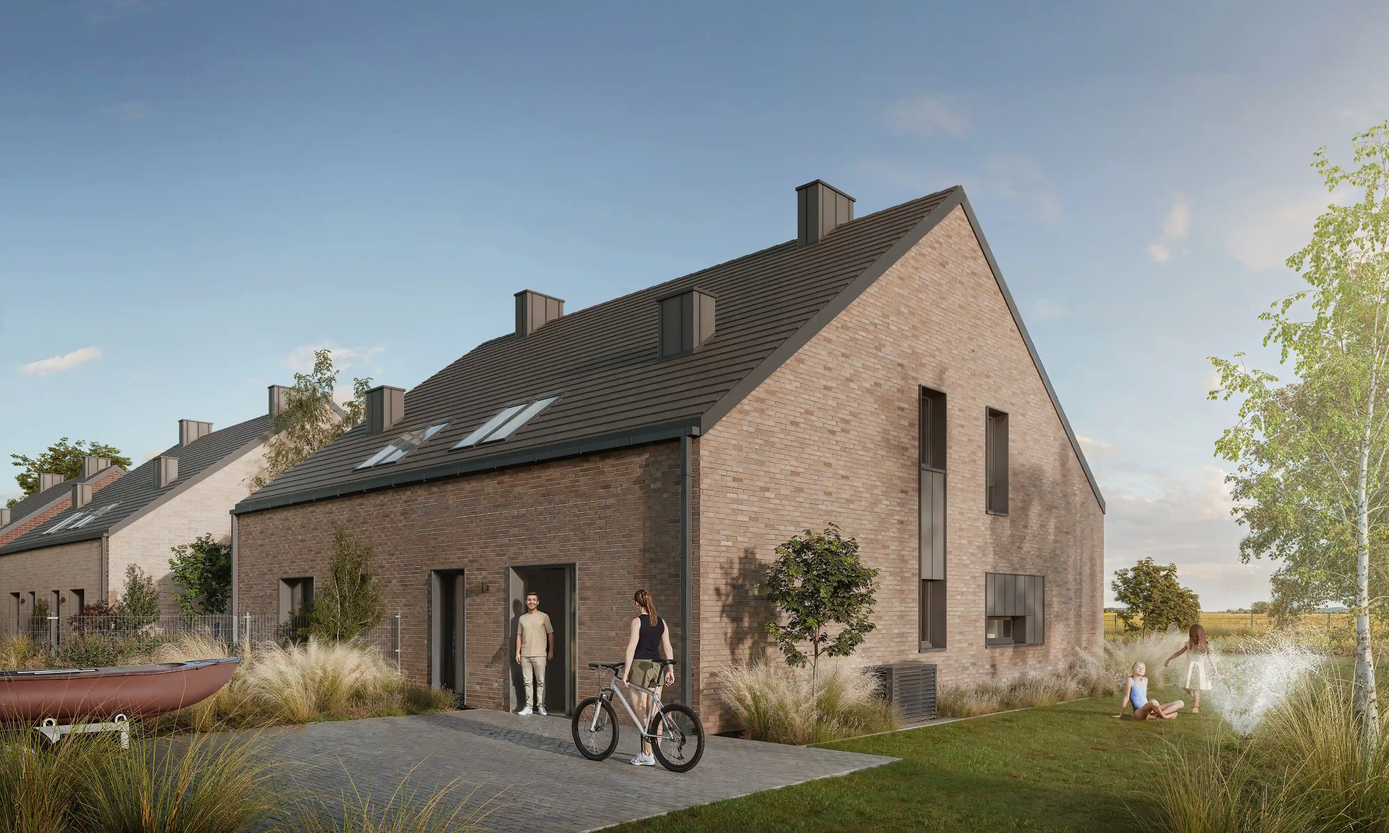
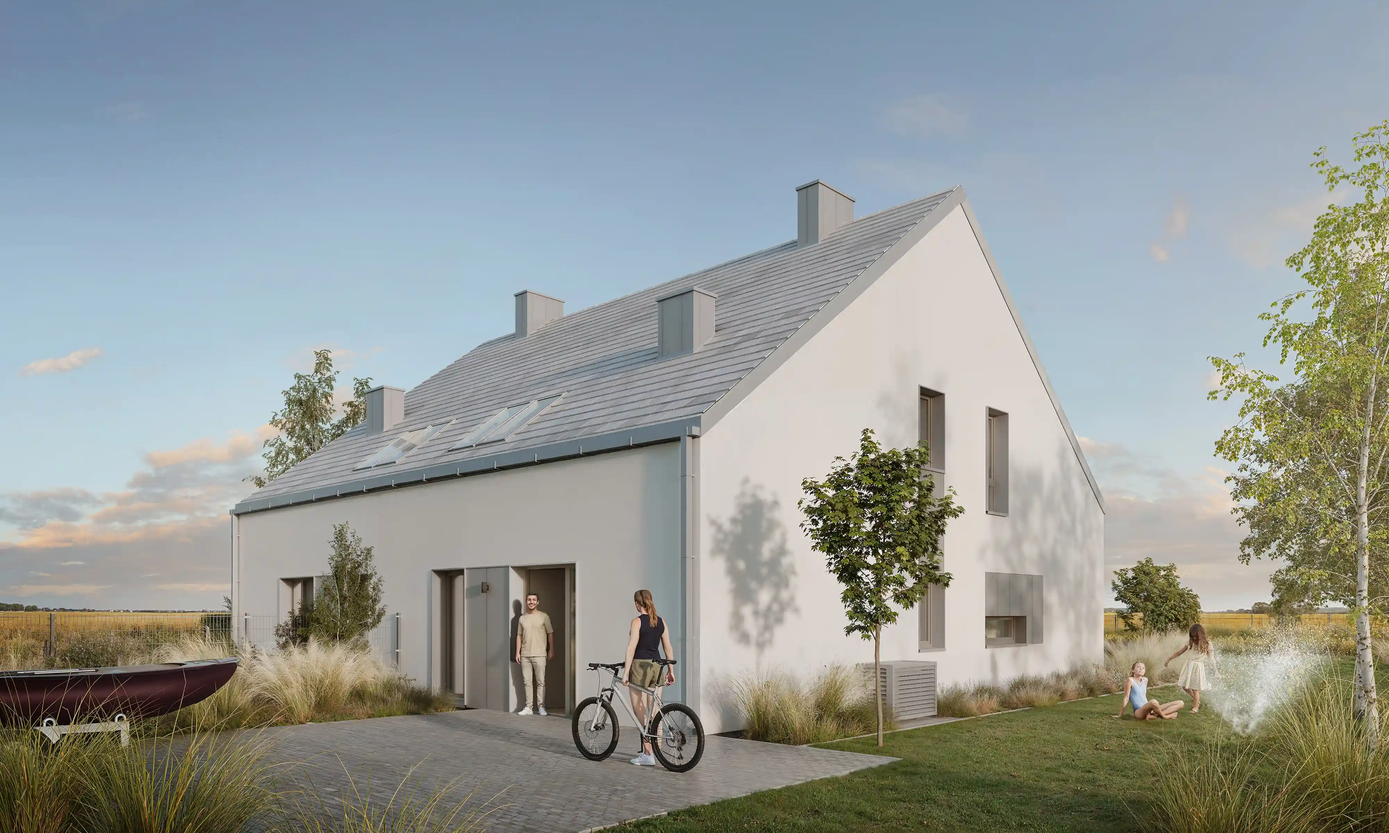
add view from inside

diff --git a/src/content/imageBlocks/widok-1.md b/src/content/imageBlocks/widok-1.md
@@ -1,0 +1,5 @@
+---
+imagePath: /images/investment/widok 1 ps.webp
+blockTitle: Przyroda na wyciągnięcie ręki.
+imageAlt: Wizualizacja tarasu przy jednym z domów w inwestycji w Potrzanowie. Na tarasie znajdują się trzy osoby jedna stoi, a dwie siedzą na sofie i rozmawiają. Przed nimi stoi stół z owocami i napojami. Otaczająca taras bujna roślinność, w tym wysokie trawy ozdobne, podkreśla spokojną, naturalną atmosferę miejsca. Na trawniku przed tarasem leży pies, ciesząc się sielskim otoczeniem.
+---

diff --git a/src/content/imageBlocks/widok-2.md b/src/content/imageBlocks/widok-2.md
@@ -1,0 +1,5 @@
+---
+imagePath: /images/investment/widok 2 ps.webp
+blockTitle: Przyroda na wyciągnięcie ręki.
+imageAlt: Wizualizacja tarasu przy jednym z domów w inwestycji w Potrzanowie. Na tarasie znajdują się trzy osoby jedna stoi, a dwie siedzą na sofie i rozmawiają. Przed nimi stoi stół z owocami i napojami. Otaczająca taras bujna roślinność, w tym wysokie trawy ozdobne, podkreśla spokojną, naturalną atmosferę miejsca. Na trawniku przed tarasem leży pies, ciesząc się sielskim otoczeniem.
+---

diff --git a/src/content/imageBlocks/widok-3.md b/src/content/imageBlocks/widok-3.md
@@ -1,0 +1,5 @@
+---
+imagePath: /images/investment/widok 3 ps.webp
+blockTitle: Przyroda na wyciągnięcie ręki.
+imageAlt: Wizualizacja tarasu przy jednym z domów w inwestycji w Potrzanowie. Na tarasie znajdują się trzy osoby jedna stoi, a dwie siedzą na sofie i rozmawiają. Przed nimi stoi stół z owocami i napojami. Otaczająca taras bujna roślinność, w tym wysokie trawy ozdobne, podkreśla spokojną, naturalną atmosferę miejsca. Na trawniku przed tarasem leży pies, ciesząc się sielskim otoczeniem.
+---
